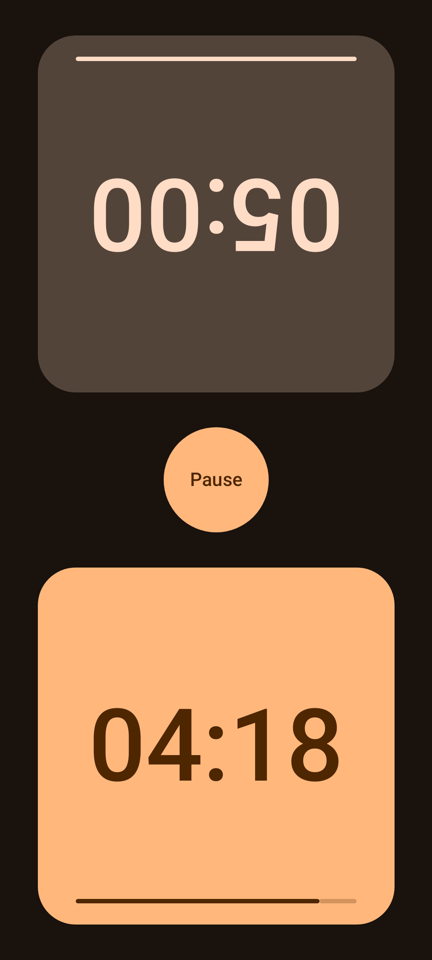
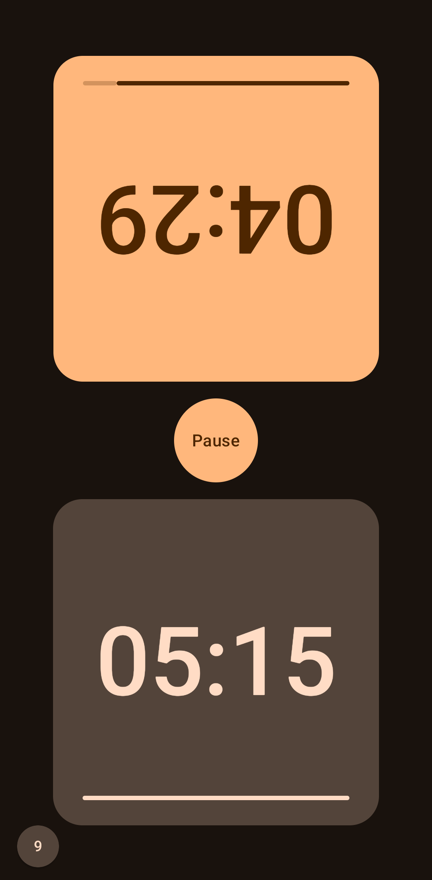
Refresh the screenshots and describe periods, odds and the counter
The screenshots are now taken on the emulator mid-game, with the move
counter, and the settings one shows a second period.

diff --git a/README.md b/README.md
@@ -3,16 +3,16 @@
 A two-player chess clock for Android and iPhone. Touch your half of the screen to end your turn and start your opponent's clock.
 
 <p>
-  <img src="docs/screenshots/rings.png" width="216" alt="Clock screen mid-game with ring faces, the top time turned toward the player opposite">
+  <img src="docs/screenshots/rings.png" width="216" alt="Clock screen mid-game with ring faces, the top time turned toward the player opposite and 12 moves played">
   <img src="docs/screenshots/panels-dark.png" width="216" alt="Clock screen with full-color panel faces in the dark theme">
-  <img src="docs/screenshots/settings.png" width="216" alt="Settings with time-control presets, custom time sliders and seating options">
+  <img src="docs/screenshots/settings.png" width="216" alt="Settings with time-control presets, the time slider, different times per player and a second period after 40 moves">
 </p>
 
 ## Design
 
 The idea is a minimal, clean clock that stays out of the way of the game:
 
-- **Two faces and one button.** During play the screen shows only the two times and Pause; the time control and settings buttons in the corners hide while the clock runs.
+- **Two faces and one button.** During play the screen shows only the two times, Pause and the move count; the settings button hides while the clock runs.
 - **Color carries the state.** Whose move it is, low time and the result show as color, not as extra labels or icons.
 - **One design language.** Rings and panels share the same square, digits and spacing, and differ only in shape.
 - **Quiet feedback.** A click confirms a press and a pulse warns of low time, so players can keep their eyes on the board.
@@ -20,7 +20,10 @@ The idea is a minimal, clean clock that stays out of the way of the game:
 
 ## Features
 
-- **Time controls** – one-tap presets from bullet to classical (`1 + 0` … `30 + 0`), picked from the clock screen's corner or in settings, or your own hours, minutes and seconds with an increment of up to a minute per move
+- **Time controls** – one-tap presets from bullet to rapid (`1 + 0` … `30 + 0`), or your own time from 15 seconds to 6 hours with up to a minute per move
+- **Periods** – classical controls in up to three periods: time added once each player has made a number of moves, such as 90 minutes for 40 moves, then 30 more with 30 seconds a move (FIDE)
+- **Time odds** – each player can start with their own time, so a stronger player can give a weaker one more
+- **Move counter** – the moves played, in the corner opposite settings; it stays during play, and a touch on it still ends the turn
 - **Increment or delay** – the seconds per move can be a Fischer increment, a Bronstein increment that gives back only the time a move took, or a simple delay that holds the clock at the start of each move, counted down on the face
 - **Seating** – times can face both players, whether they sit at the ends of the phone or at its sides
 - **Ready to play** – starts at `5 + 3` with each time turned to its player, for a phone lying between two players across a board
@@ -29,9 +32,9 @@ The idea is a minimal, clean clock that stays out of the way of the game:
 - **Four color palettes** – Walnut, Forest, Ocean (color-blind friendly) and Graphite (high contrast, true black when dark)
 - **Low-time warning** – the face of the player on move turns red under ten seconds
 - **Vibration** – a click confirms each press without looking at the clock, two pulses warn at ten seconds left and a long buzz marks a fallen flag; each can be turned off
-- **Made for play** – the screen stays on while the clock runs, the corner buttons hide during play so they can't be hit by accident, and the game pauses when the app goes to the background
-- **Quick to the touch** – a turn ends the moment your finger lands, timed by the touch itself, so the app's own handling time is never charged to the player who moved
-- **Accessible** – TalkBack and VoiceOver announce whose move it is, any delay, setting names and values, and presets in words ("3 minutes, plus 2 seconds per move")
+- **Made for play** – the screen stays on while the clock runs, the settings button hides during play so it can't be hit by accident, and the game pauses when the app goes to the background
+- **Quick to the touch** – a turn ends the moment your finger lands, timed by the touch itself, so the app's own handling time is never charged to the player who moved; each tick redraws only the face whose time runs
+- **Accessible** – TalkBack and VoiceOver announce whose move it is, any delay, the moves played, setting names and values, and presets in words ("3 minutes, plus 2 seconds per move")
 
 ### Palettes
 
